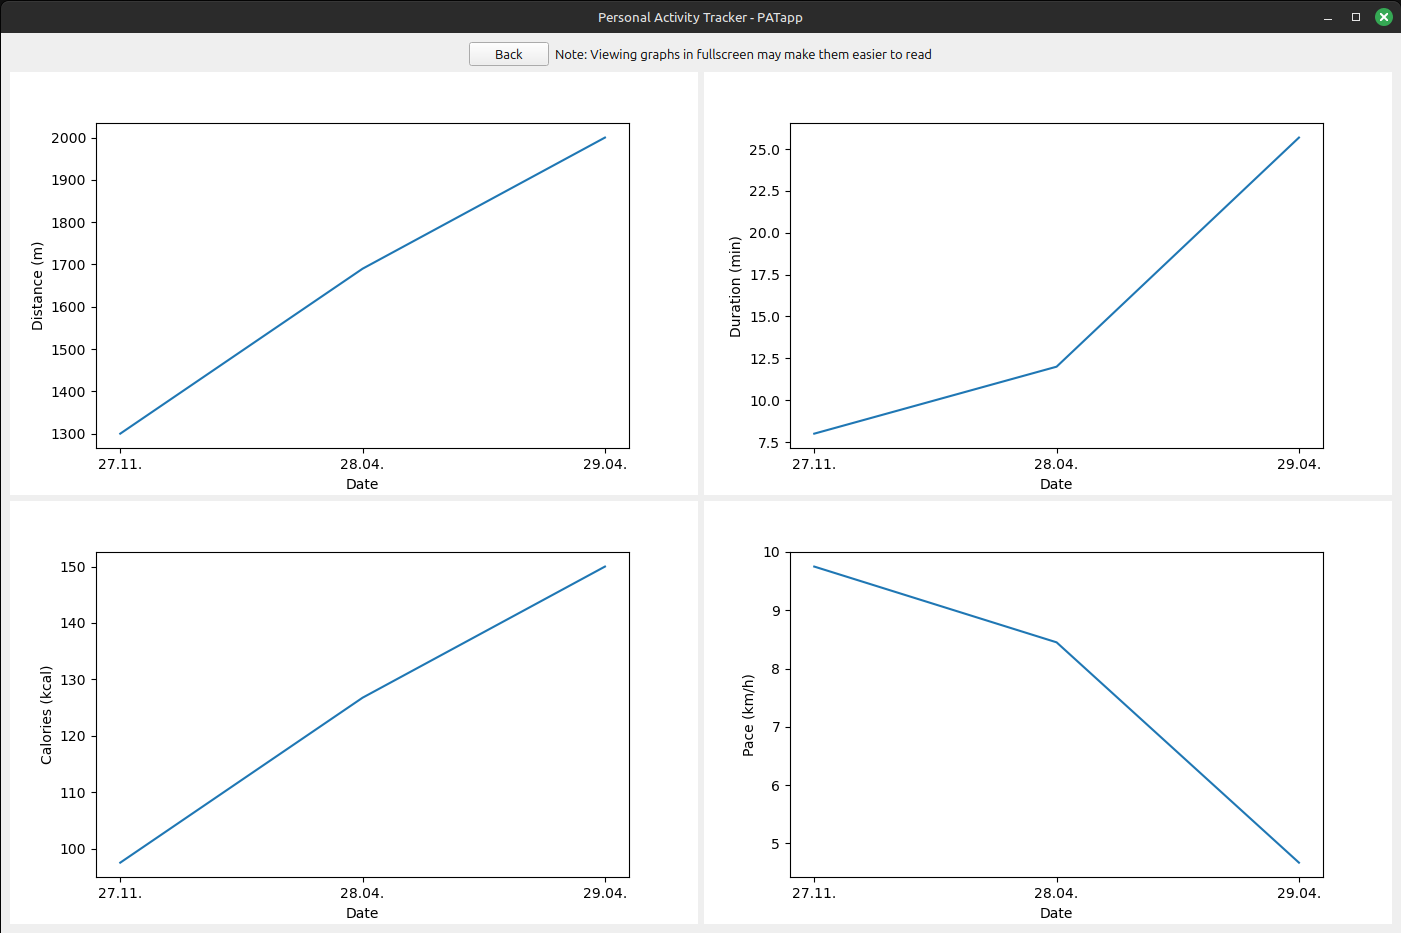
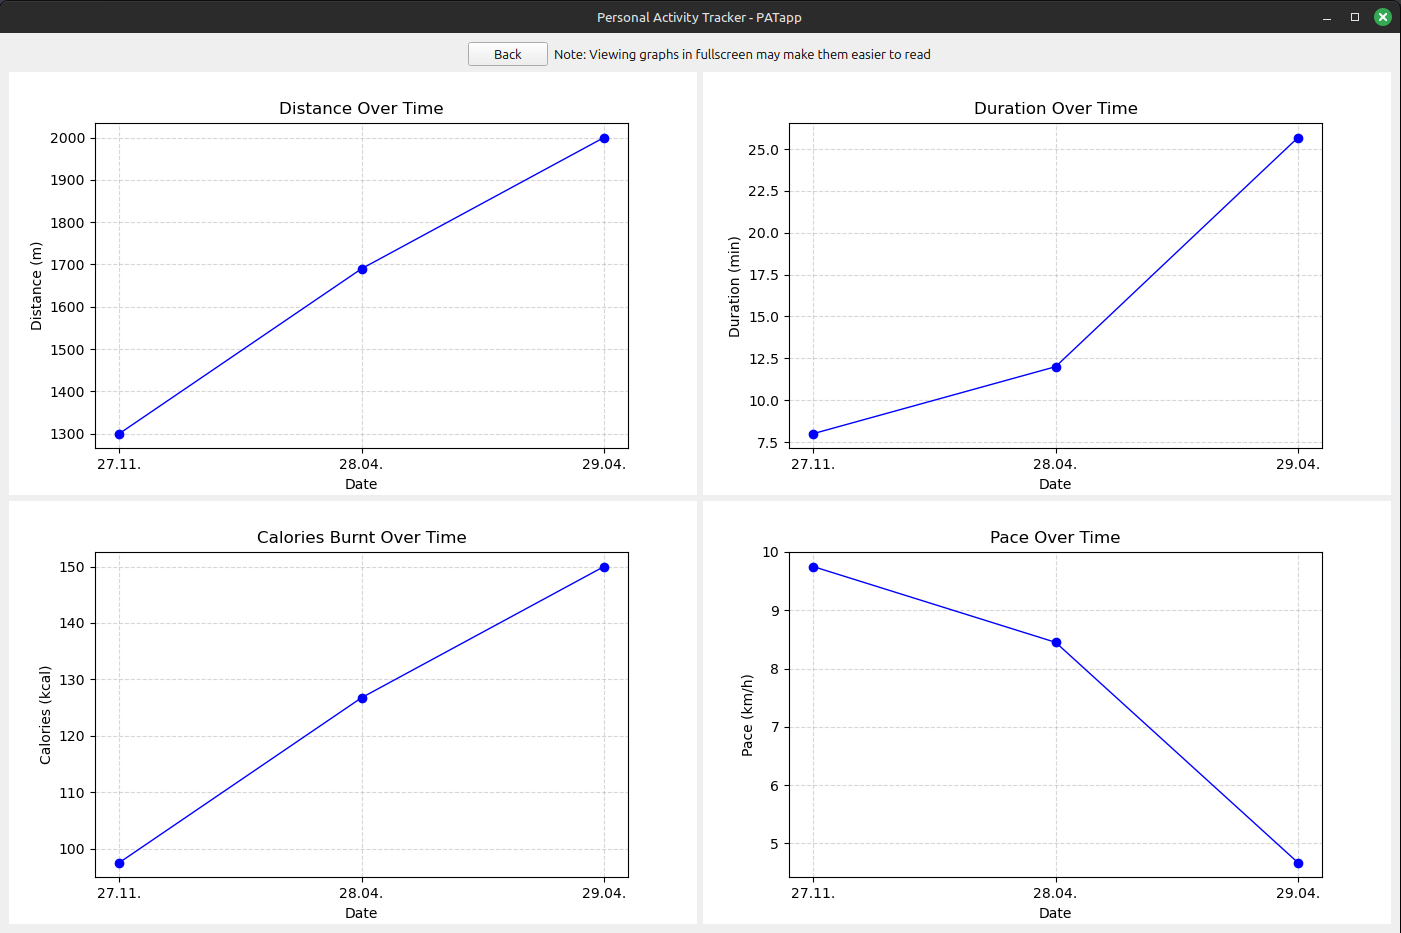
graph update

diff --git a/main.py b/main.py
@@ -29,6 +29,16 @@ def calculate_pace(distance, duration):
     time = int(raw_time[0]) + int(raw_time[1]) / 60 + int(raw_time[2]) / 3600
     return round((int(distance)/1000) / time, 2)
 
+def calculate_monthly_exercises():
+    # raw_data = [ [detail, detail, ... ] [detail, detail, ... ] ... ]
+    # monthly_amounts = number of exercises for each month
+    raw_data = fetch_session_details()
+    monthly_amounts = [ 0, 0, 0, 0, 0, 0, 0, 0, 0, 0, 0, 0 ]
+    for session in raw_data:
+        kuukausi = session[0].split(".")[1]
+        monthly_amounts[int(kuukausi)-1] += 1
+    return monthly_amounts
+
 def check_input(input, mode):
     if input.strip() == "":
         print(f"Invalid input.")
@@ -153,21 +163,29 @@ class DrawGraphs(QWidget):
         self.dateCalories.figure.clear()
         self.datePace.figure.clear()
         axDistance = self.dateDistance.figure.add_subplot(111)
-        axDistance.plot(self.sessions_sorted[0], self.sessions_sorted[2])
+        axDistance.plot(self.sessions_sorted[0], self.sessions_sorted[2], marker='o', linestyle='-', color='blue', linewidth=1)
         axDistance.set_ylabel('Distance (m)')
         axDistance.set_xlabel('Date')
+        axDistance.grid(True, linestyle='--', alpha=0.5)
+        axDistance.set_title("Distance Over Time")
         axDuration = self.dateDuration.figure.add_subplot(111)
-        axDuration.plot(self.sessions_sorted[0], self.duration_minutes)
+        axDuration.plot(self.sessions_sorted[0], self.duration_minutes, marker='o', linestyle='-', color='blue', linewidth=1)
         axDuration.set_ylabel('Duration (min)')
         axDuration.set_xlabel('Date')
+        axDuration.grid(True, linestyle='--', alpha=0.5)
+        axDuration.set_title("Duration Over Time")
         axCalories = self.dateCalories.figure.add_subplot(111)
-        axCalories.plot(self.sessions_sorted[0], self.sessions_sorted[4])
+        axCalories.plot(self.sessions_sorted[0], self.sessions_sorted[4], marker='o', linestyle='-', color='blue', linewidth=1)
         axCalories.set_ylabel('Calories (kcal)')
         axCalories.set_xlabel('Date')
+        axCalories.grid(True, linestyle='--', alpha=0.5)
+        axCalories.set_title("Calories Burnt Over Time")
         axPace = self.datePace.figure.add_subplot(111)
-        axPace.plot(self.sessions_sorted[0], self.sessions_sorted[3])
+        axPace.plot(self.sessions_sorted[0], self.sessions_sorted[3], marker='o', linestyle='-', color='blue', linewidth=1)
         axPace.set_ylabel('Pace (km/h)')
         axPace.set_xlabel('Date')
+        axPace.grid(True, linestyle='--', alpha=0.5)
+        axPace.set_title("Pace Over Time")
 
     def showEvent(self, event):
         self.window().resize(1400, 900)
@@ -220,9 +238,22 @@ class ShowSessions(QWidget):
         inputLayer.addWidget(self.chooseInput)
 
         self.sessionDetail = QLabel()
+        self.sessionGraph = FigureCanvas(Figure())
         layout.addLayout(buttonLayer)
         layout.addLayout(inputLayer)
         layout.addWidget(self.sessionDetail)
+        layout.addWidget(self.sessionGraph)
+
+    def plot(self):
+        self.sessionGraph.figure.clear()
+        axSessions = self.sessionGraph.figure.add_subplot(111)
+        months = list(range(1, 13))
+        axSessions.plot(months, calculate_monthly_exercises(), marker='o', linestyle='-', color='blue', linewidth=1)
+        axSessions.set_title("Amount Exercised By Month")
+        axSessions.set_xticks(months)
+        axSessions.set_xticklabels(['Jan', 'Feb', 'Mar', 'Apr', 'May', 'Jun',
+                                    'Jul', 'Aug', 'Sep', 'Oct', 'Nov', 'Dec'])
+        axSessions.grid(True, linestyle='--', alpha=0.5)
 
     def input_checker(self, candidate):
         try:
@@ -245,7 +276,7 @@ class ShowSessions(QWidget):
         self.switch_view.emit(3)
 
     def showEvent(self, event):
-        self.window().resize(800, 500)
+        self.window().resize(800, 600)
         self.session_data = fetch_session_details()
         self.tarkastaja = len(self.session_data)
         session_text = ""
@@ -258,6 +289,8 @@ class ShowSessions(QWidget):
             self.sessionDetail.setAlignment(Qt.AlignLeft)
         self.sessionDetail.setText(session_text)
         self.chooseInput.setText("")
+        self.plot()
+        self.sessionGraph.draw()
         super().showEvent(event)
         
 class Physique(QWidget):
